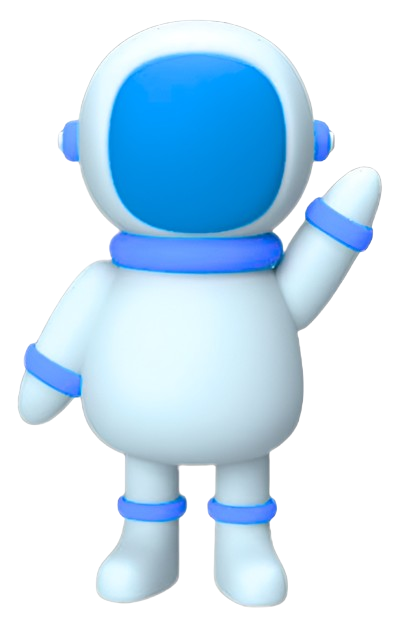
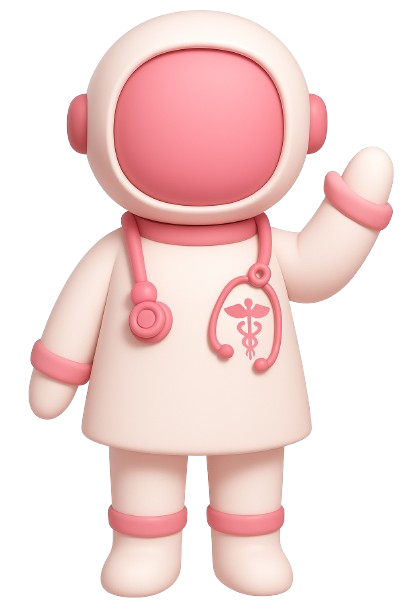
Arreglo de algunos colores

diff --git a/portal-innovacion/src/pages/home/HomeThreeBanner.js b/portal-innovacion/src/pages/home/HomeThreeBanner.js
@@ -71,17 +71,17 @@ const Banner = () => {
                         <div className="ed-slider-2-content">
                           <div className="ed-slider-2-subtitle pb-10">
                             <div>
-                              <span>Bienvenid@ a la carrera de:</span>
+                              <span>Bienvenid@ a:</span>
                             </div>
                           </div>
                           <div className="ed-slider-title text-white">
                             <div>
-                              <span>INGENIERÍA EN</span>
+                              <span>CONSULTORIO</span>
                             </div>
                             <div>
                               <span>
-                                INNOVACIÓN 
-                                <i> EMPRESARIAL</i>
+                                GINECOLOGICO 
+                                <i> GIS</i>
                               </span>
                             </div>
                           </div>
@@ -142,17 +142,17 @@ const Banner = () => {
                         <div className="ed-slider-2-content">
                           <div className="ed-slider-2-subtitle pb-10">
                             <div>
-                              <span>Bienvenid@ a la carrera de:</span>
+                              <span>Bienvenid@ a:</span>
                             </div>
                           </div>
                           <div className="ed-slider-title text-white">
                             <div>
-                              <span>INGENIERÍA EN</span>
+                              <span>CONSULTORIO</span>
                             </div>
                             <div>
                               <span>
-                                INNOVACIÓN 
-                                <i> EMPRESARIAL</i>
+                                GINECOLOGICO 
+                                <i> GIS</i>
                               </span>
                             </div>
                           </div>

diff --git a/portal-innovacion/src/assets/scss/_meanmenu.scss b/portal-innovacion/src/assets/scss/_meanmenu.scss
@@ -18,7 +18,7 @@ a.meanmenu-reveal {
 	float: left;
 	width: 100%;
 	position: relative;
-	background: #070337;
+	background: #E79796;
 	padding: 4px 0;
 	min-height: 42px;
 	z-index: 999999;
@@ -53,7 +53,7 @@ a.meanmenu-reveal {
 .mean-container .mean-nav {
 	float: left;
 	width: 100%;
-	background: #070337;
+	background: #E79796;
 	margin-top: 44px;
 }
 

diff --git a/portal-innovacion/src/assets/scss/utils/_colors.scss b/portal-innovacion/src/assets/scss/utils/_colors.scss
@@ -25,13 +25,13 @@ $light-mode: (
     'body': #333931
   ),
   'theme': (
-    '1': #00B4D8,
+    '1': #F4CFC7,
     '2': #FE543D,
-    '3': #00B4D8,
+    '3': #E79796,
     '4': #0077b6,
     '5': #00BEAE,
-    '6': #00B4D8,
-    '7': #00B4D8
+    '6': #E79796,
+    '7': #E79796
   ),
   'random':(
     'background': #ffffff,

diff --git a/portal-innovacion/src/assets/scss/_nice-select.scss b/portal-innovacion/src/assets/scss/_nice-select.scss
@@ -36,7 +36,7 @@
 }
 
 .nice-select:hover {
-	border-color: #124BD1;
+	border-color: #E79796;
 }
 
 .nice-select:active,
@@ -151,7 +151,7 @@
 	background-color: #fff;
 	border-radius: 5px;
 	box-shadow: 0px 1px 1px rgba(12, 40, 133, 0.2);
-	border: 1.5px solid #124BD1;
+	border: 1.5px solid #E79796;
 	z-index: 999;
 }
 

diff --git a/portal-innovacion/src/assets/scss/layout/_slider.scss b/portal-innovacion/src/assets/scss/layout/_slider.scss
@@ -267,7 +267,7 @@
             left: 0;
             height: 100%;
             width: 100%; 
-            background: linear-gradient(90deg, #000d3a 0%, rgba(0, 13, 58, 0.2) 100%);
+            background: linear-gradient(90deg, #F4CFC7 0%, rgba(0, 13, 58, 0.2) 100%);
         }
     }
     &-shape{
